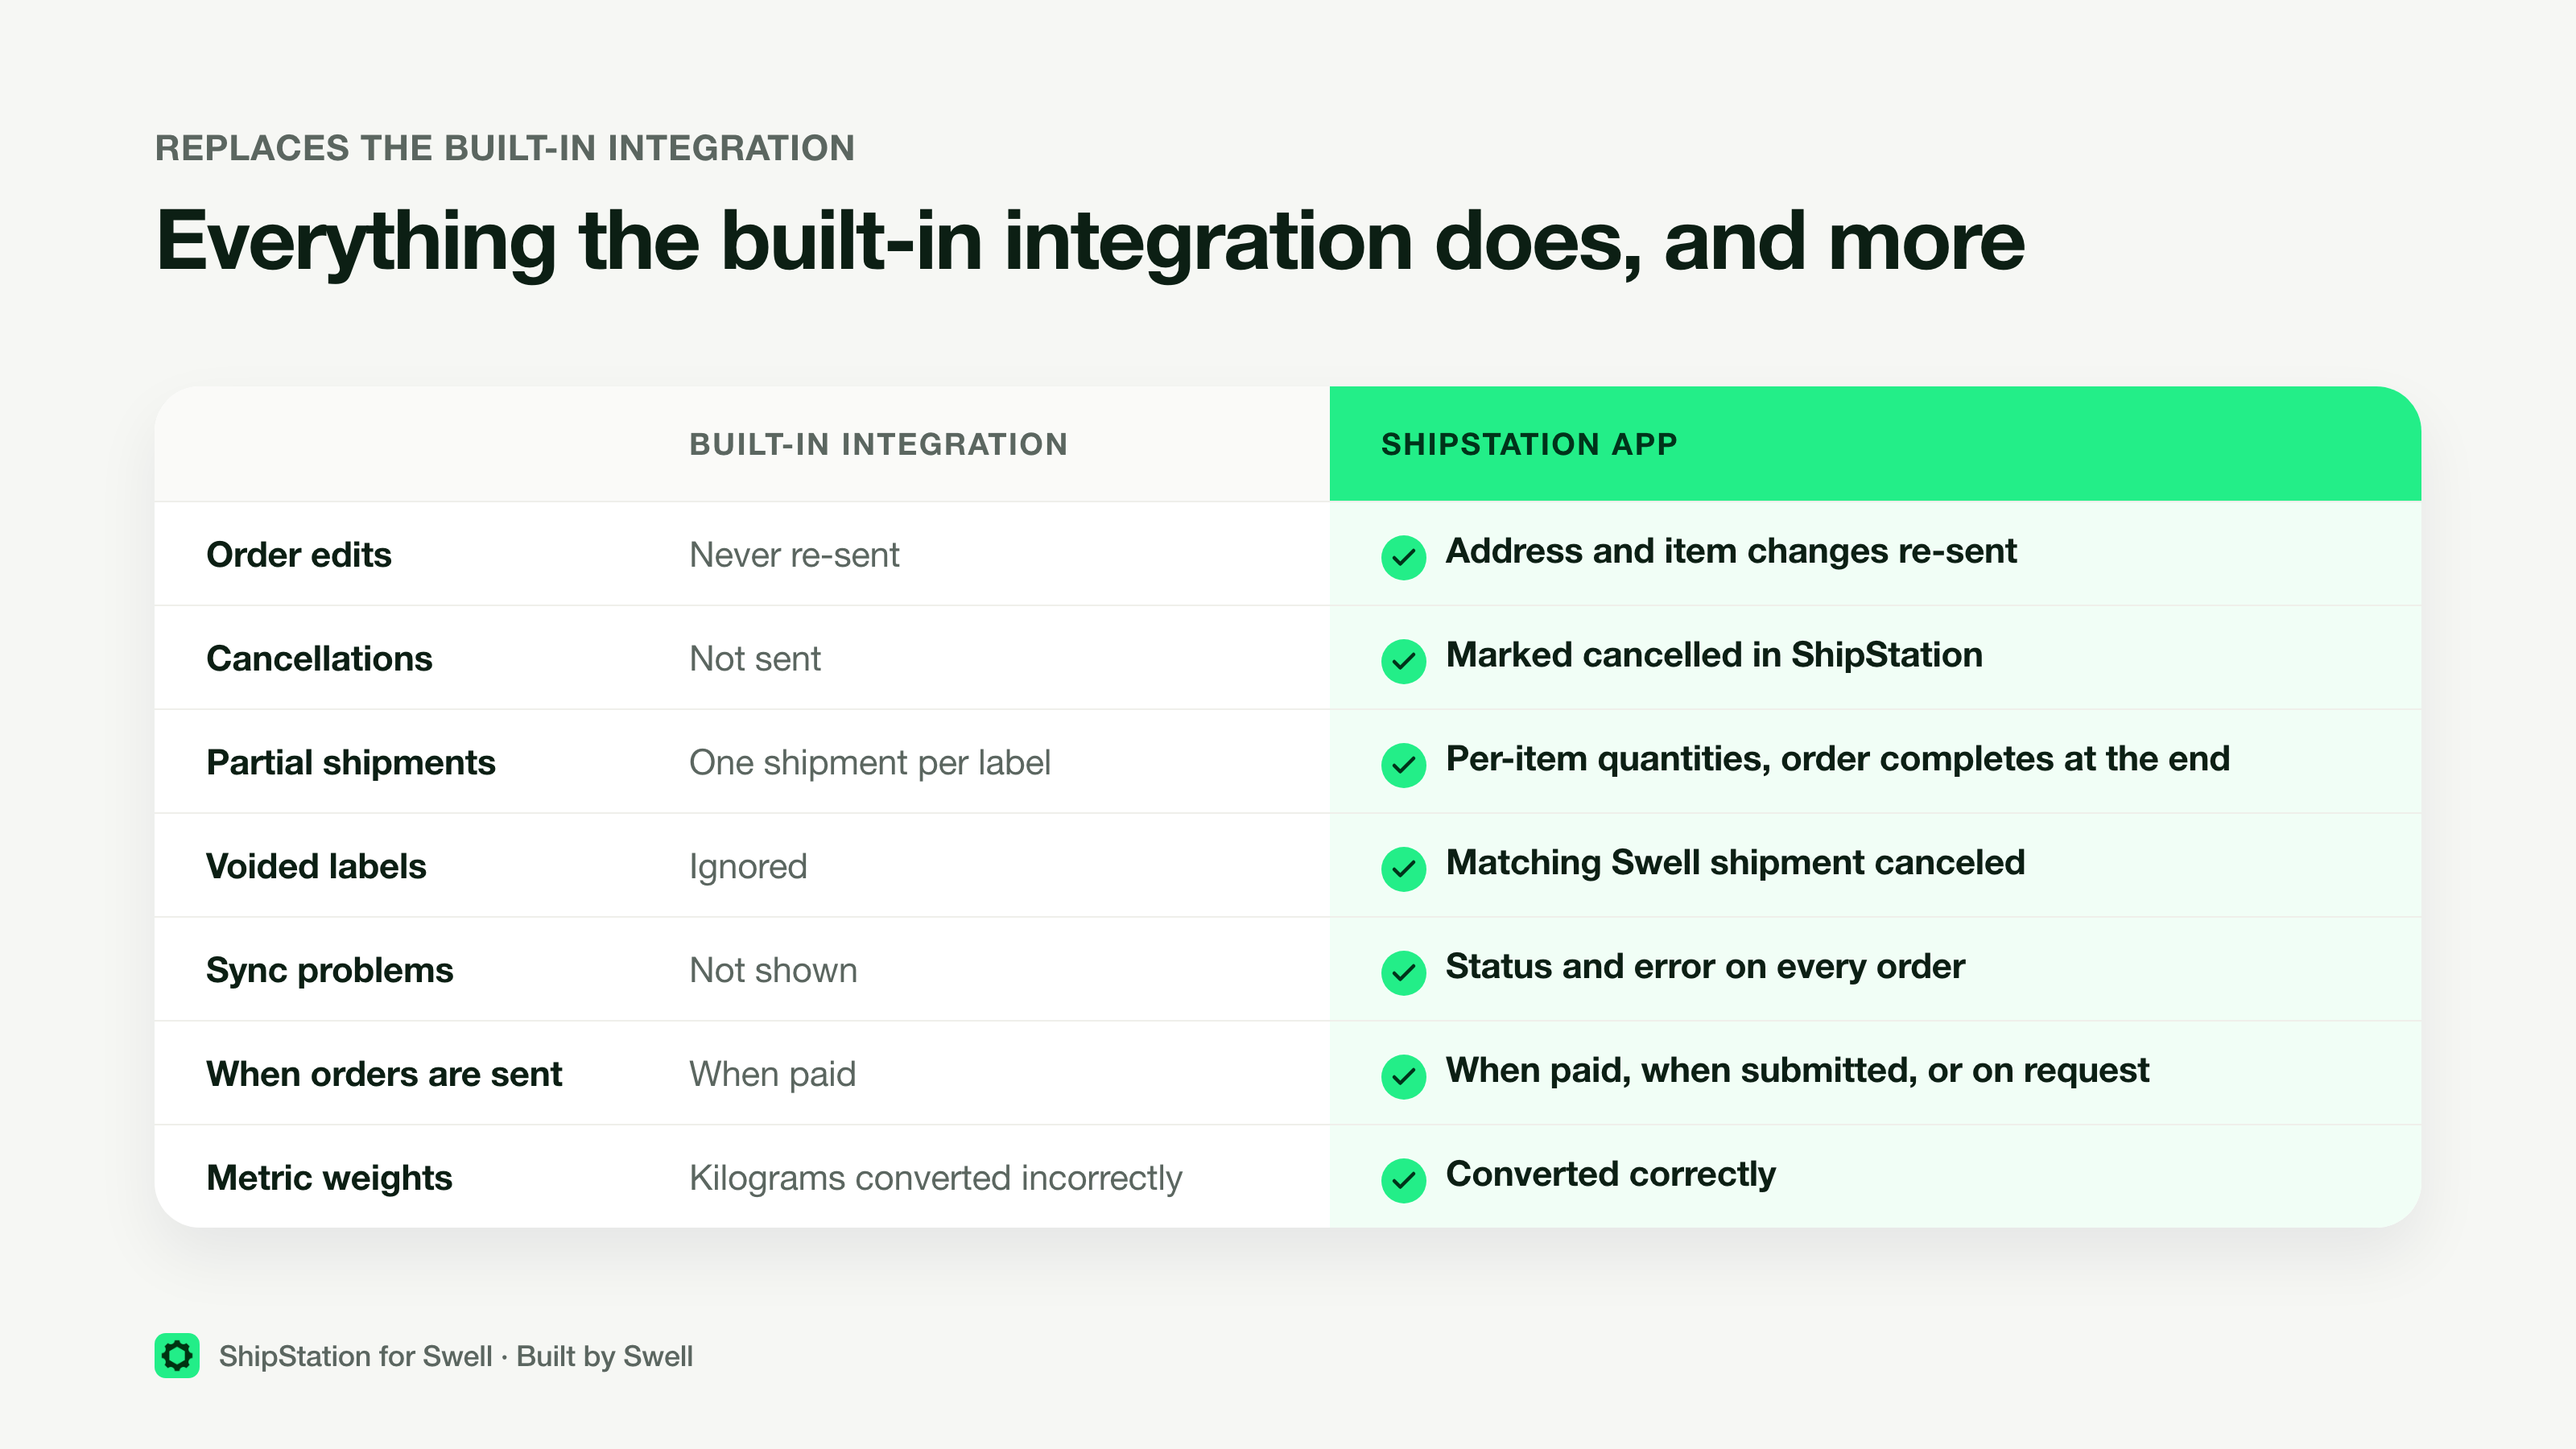
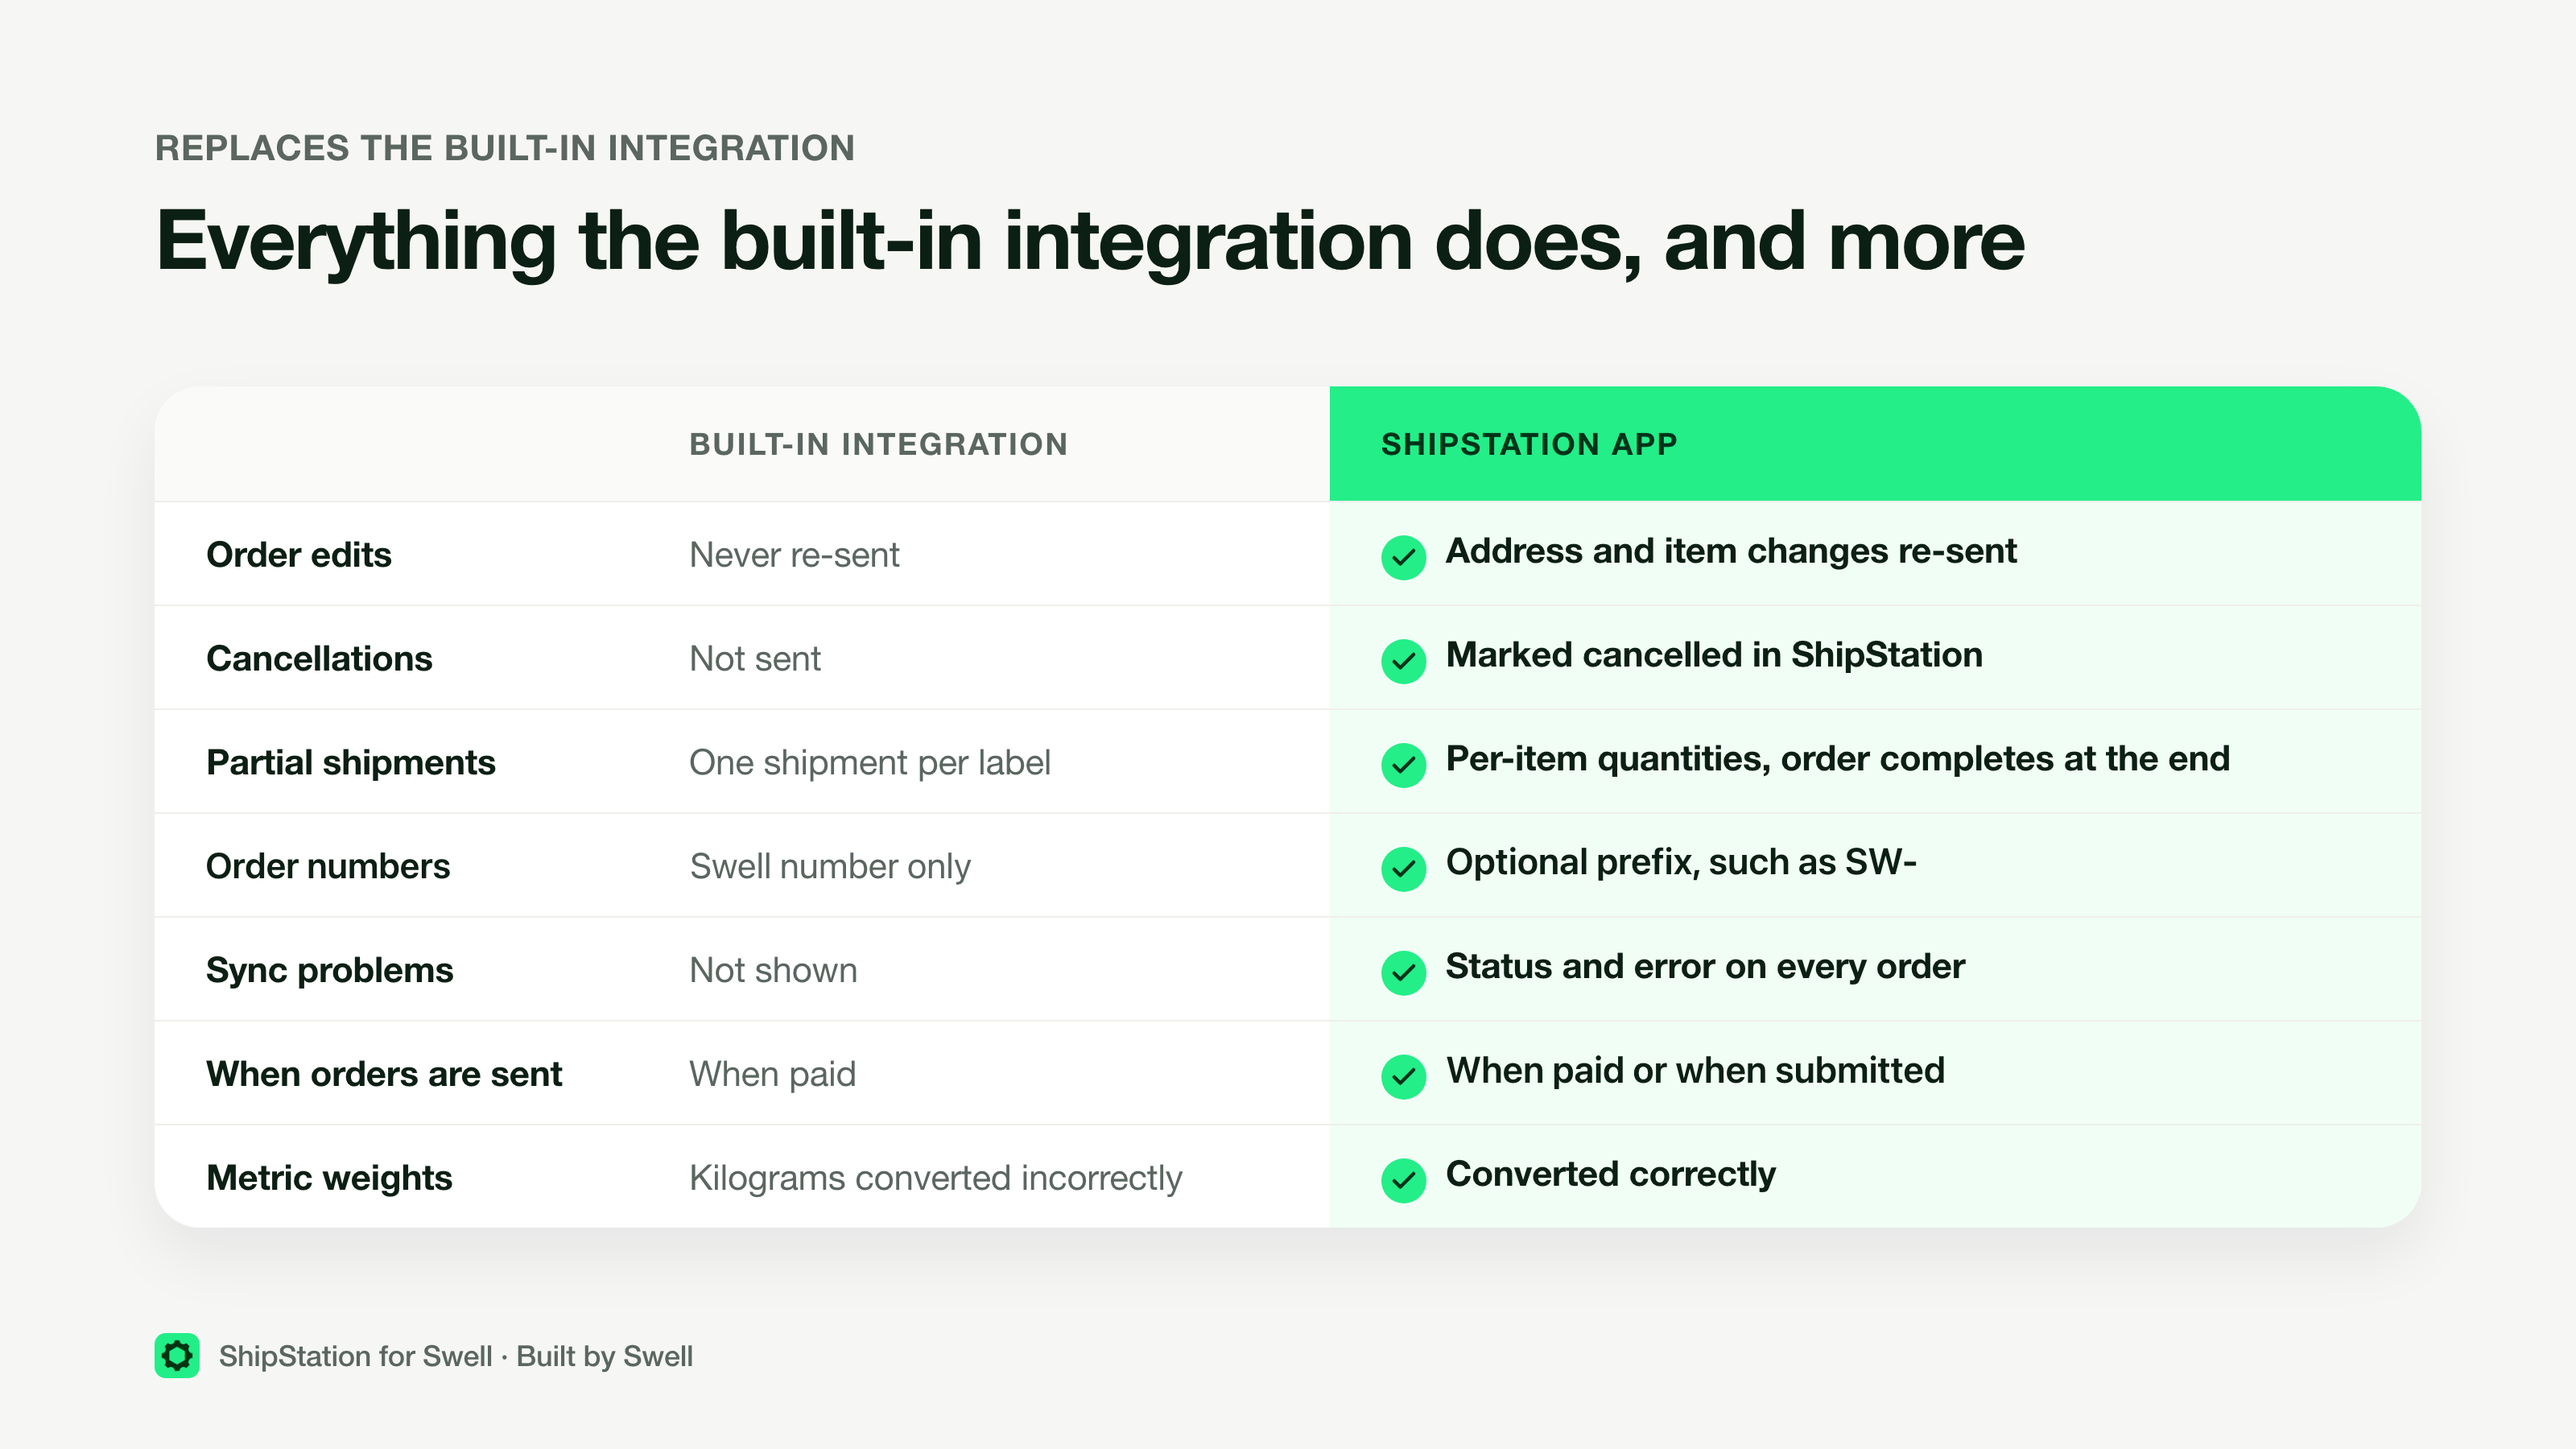
Update App Store listing: guide link, accurate claims, masked secrets
- documentation_url to the ShipStation app guide; price_external
- Compare image: order number prefix row replaces voided labels (the
  built-in integration also records voids); drop "on request"
- Highlights and image descriptions match the code (live-only tracking,
  edits only while the order is open in ShipStation)
- Settings image without the info icon; API secret and webhook secret
  are secret fields
- DESCRIPTION.md rewritten to match the code; MIT LICENSE.md; social card

diff --git a/DESCRIPTION.md b/DESCRIPTION.md
@@ -1,47 +1,12 @@
-ShipStation for Swell connects your store to ShipStation, so you can pick, pack and buy labels in ShipStation while Swell stays the record of what shipped. Paid orders appear in ShipStation on their own. When you buy a label there, the order in Swell is marked shipped with the carrier, the tracking number and the exact items in the box. Nothing is typed twice, and your customers see accurate tracking.
+Send your Swell orders to ShipStation, where you pick, pack and buy labels. When you buy a label, the order in Swell gets a shipment with the carrier, tracking number and the items in the package, and its fulfillment status updates to match.
 
-It replaces Swell's built-in ShipStation integration and does everything that integration does, plus partial shipments, order edits, cancellations, voided labels and a sync status on every order.
+The app replaces Swell's built-in ShipStation integration. It also sends order edits and cancellations to ShipStation, records partial shipments item by item, and shows a sync status on every order.
 
-## Orders go to ShipStation automatically
+- **Orders ready to ship.** Paid orders, or submitted ones if you choose, go to ShipStation with their addresses, SKUs, product options, weights and the shipping service the customer chose. An optional prefix sets Swell orders apart in a shared ShipStation account.
+- **Open orders come along.** The paid orders already waiting to ship when you set up the app are sent too, 5 every 5 minutes, oldest first.
+- **Tracking back in Swell.** Each label you buy becomes a Swell shipment with the carrier, service, tracking number and the items in the package.
+- **Partial shipments.** Ship an order in parts, and each label becomes its own shipment. The order is fulfilled when the last item ships.
+- **Edits and cancellations follow.** Change an order's shipping details or items, or cancel it, and the order is updated in ShipStation while it's still open there.
+- **Sync status on every order.** A ShipStation tab shows the status, the ShipStation order number, the shipments received and the last error. A ShipStation errors tab in the order list collects failed orders, and Re-sync on save sends one again.
 
-Each order is sent with its billing and shipping addresses, customer email, requested shipping service, gift message and totals. Every line item carries its SKU, quantity, weight, product options such as size, colour or engraving, and the price the customer actually paid, which ShipStation uses for packing slips and customs values. Only physical items are sent, so an order of gift cards alone never clutters your queue.
-
-You choose when an order is sent: when it's paid, when it's submitted, or only when you ask. An optional order number prefix, such as "SW-", keeps Swell orders easy to spot when several sales channels feed one ShipStation account. Sending the same order again updates it in ShipStation instead of creating a duplicate.
-
-## Your open orders come with you
-
-When you switch the app on, the orders that are already paid and waiting to ship are sent to ShipStation too, a few every five minutes, oldest first. You don't start with an empty queue, and ShipStation's rate limits are respected.
-
-## Tracking comes back to Swell
-
-Buy a label in ShipStation and a shipment is created on the Swell order with the carrier, service, tracking number and the items and quantities in that package. The order's fulfillment status updates to match, and the tracking is available wherever your store shows it to customers.
-
-- **Partial shipments.** Ship part of an order today and the rest next week. Each label becomes its own shipment, and the order completes when the last item ships.
-- **Voided labels.** Void a label in ShipStation and the matching Swell shipment is canceled.
-- **No double counting.** A notification ShipStation sends twice is recognised and recorded once.
-
-Shipments are only ever created from data the app reads back from ShipStation with your own credentials.
-
-## Edits and cancellations follow the order
-
-Change a shipping address or the items on an order in Swell before it ships, and the order is updated in ShipStation. Cancel it in Swell and it's cancelled in ShipStation. Once ShipStation has shipped or cancelled an order it won't accept changes, and the order in Swell says so, so nothing fails silently.
-
-## See the sync status on every order
-
-Every order gets a ShipStation tab showing whether it synced, its ShipStation order number, when it last synced, how many shipments came back and, if something went wrong, the error ShipStation returned. The order list gains a ShipStation column and a ShipStation errors view, so problems are easy to find. Fix the cause, switch on "Re-sync on save", and the order is sent again.
-
-## Setup
-
-You need a ShipStation account on a plan with API access, and its API key and secret from Settings → Account → API Settings in ShipStation.
-
-1. Install the app and turn off Swell's built-in ShipStation integration, so orders aren't sent twice.
-2. Enter your API key and secret in the app's settings, choose when orders are sent, and switch the app on.
-3. Run the app's one-time setup to connect ShipStation's shipment notifications. The README walks through it.
-
-Once a day the app checks that ShipStation's notifications are still connected and repairs them if they aren't.
-
-## Good to know
-
-- Tracking comes back to your store's live environment. In test mode orders are still sent to ShipStation, but shipments don't return.
-- Live shipping rates at checkout, inventory sync and returns are not included.
-- This app is built and supported by Swell and is open source at github.com/swellstores/shipstation-app.
+Setup takes a few minutes. In ShipStation, copy your API key and secret from Settings → Account → API Settings. In Swell, deactivate the built-in ShipStation integration under Integrations, enter the keys and a webhook secret in the app settings, and turn on Enable ShipStation sync. Then run the app's setup route to register the shipment webhooks, or let the app's daily check register them. Tracking comes back to your live environment.

diff --git a/LICENSE.md b/LICENSE.md
@@ -1,0 +1,21 @@
+MIT License
+
+Copyright (c) 2026 Swell
+
+Permission is hereby granted, free of charge, to any person obtaining a copy
+of this software and associated documentation files (the "Software"), to deal
+in the Software without restriction, including without limitation the rights
+to use, copy, modify, merge, publish, distribute, sublicense, and/or sell
+copies of the Software, and to permit persons to whom the Software is
+furnished to do so, subject to the following conditions:
+
+The above copyright notice and this permission notice shall be included in all
+copies or substantial portions of the Software.
+
+THE SOFTWARE IS PROVIDED "AS IS", WITHOUT WARRANTY OF ANY KIND, EXPRESS OR
+IMPLIED, INCLUDING BUT NOT LIMITED TO THE WARRANTIES OF MERCHANTABILITY,
+FITNESS FOR A PARTICULAR PURPOSE AND NONINFRINGEMENT. IN NO EVENT SHALL THE
+AUTHORS OR COPYRIGHT HOLDERS BE LIABLE FOR ANY CLAIM, DAMAGES OR OTHER
+LIABILITY, WHETHER IN AN ACTION OF CONTRACT, TORT OR OTHERWISE, ARISING FROM,
+OUT OF OR IN CONNECTION WITH THE SOFTWARE OR THE USE OR OTHER DEALINGS IN THE
+SOFTWARE.
